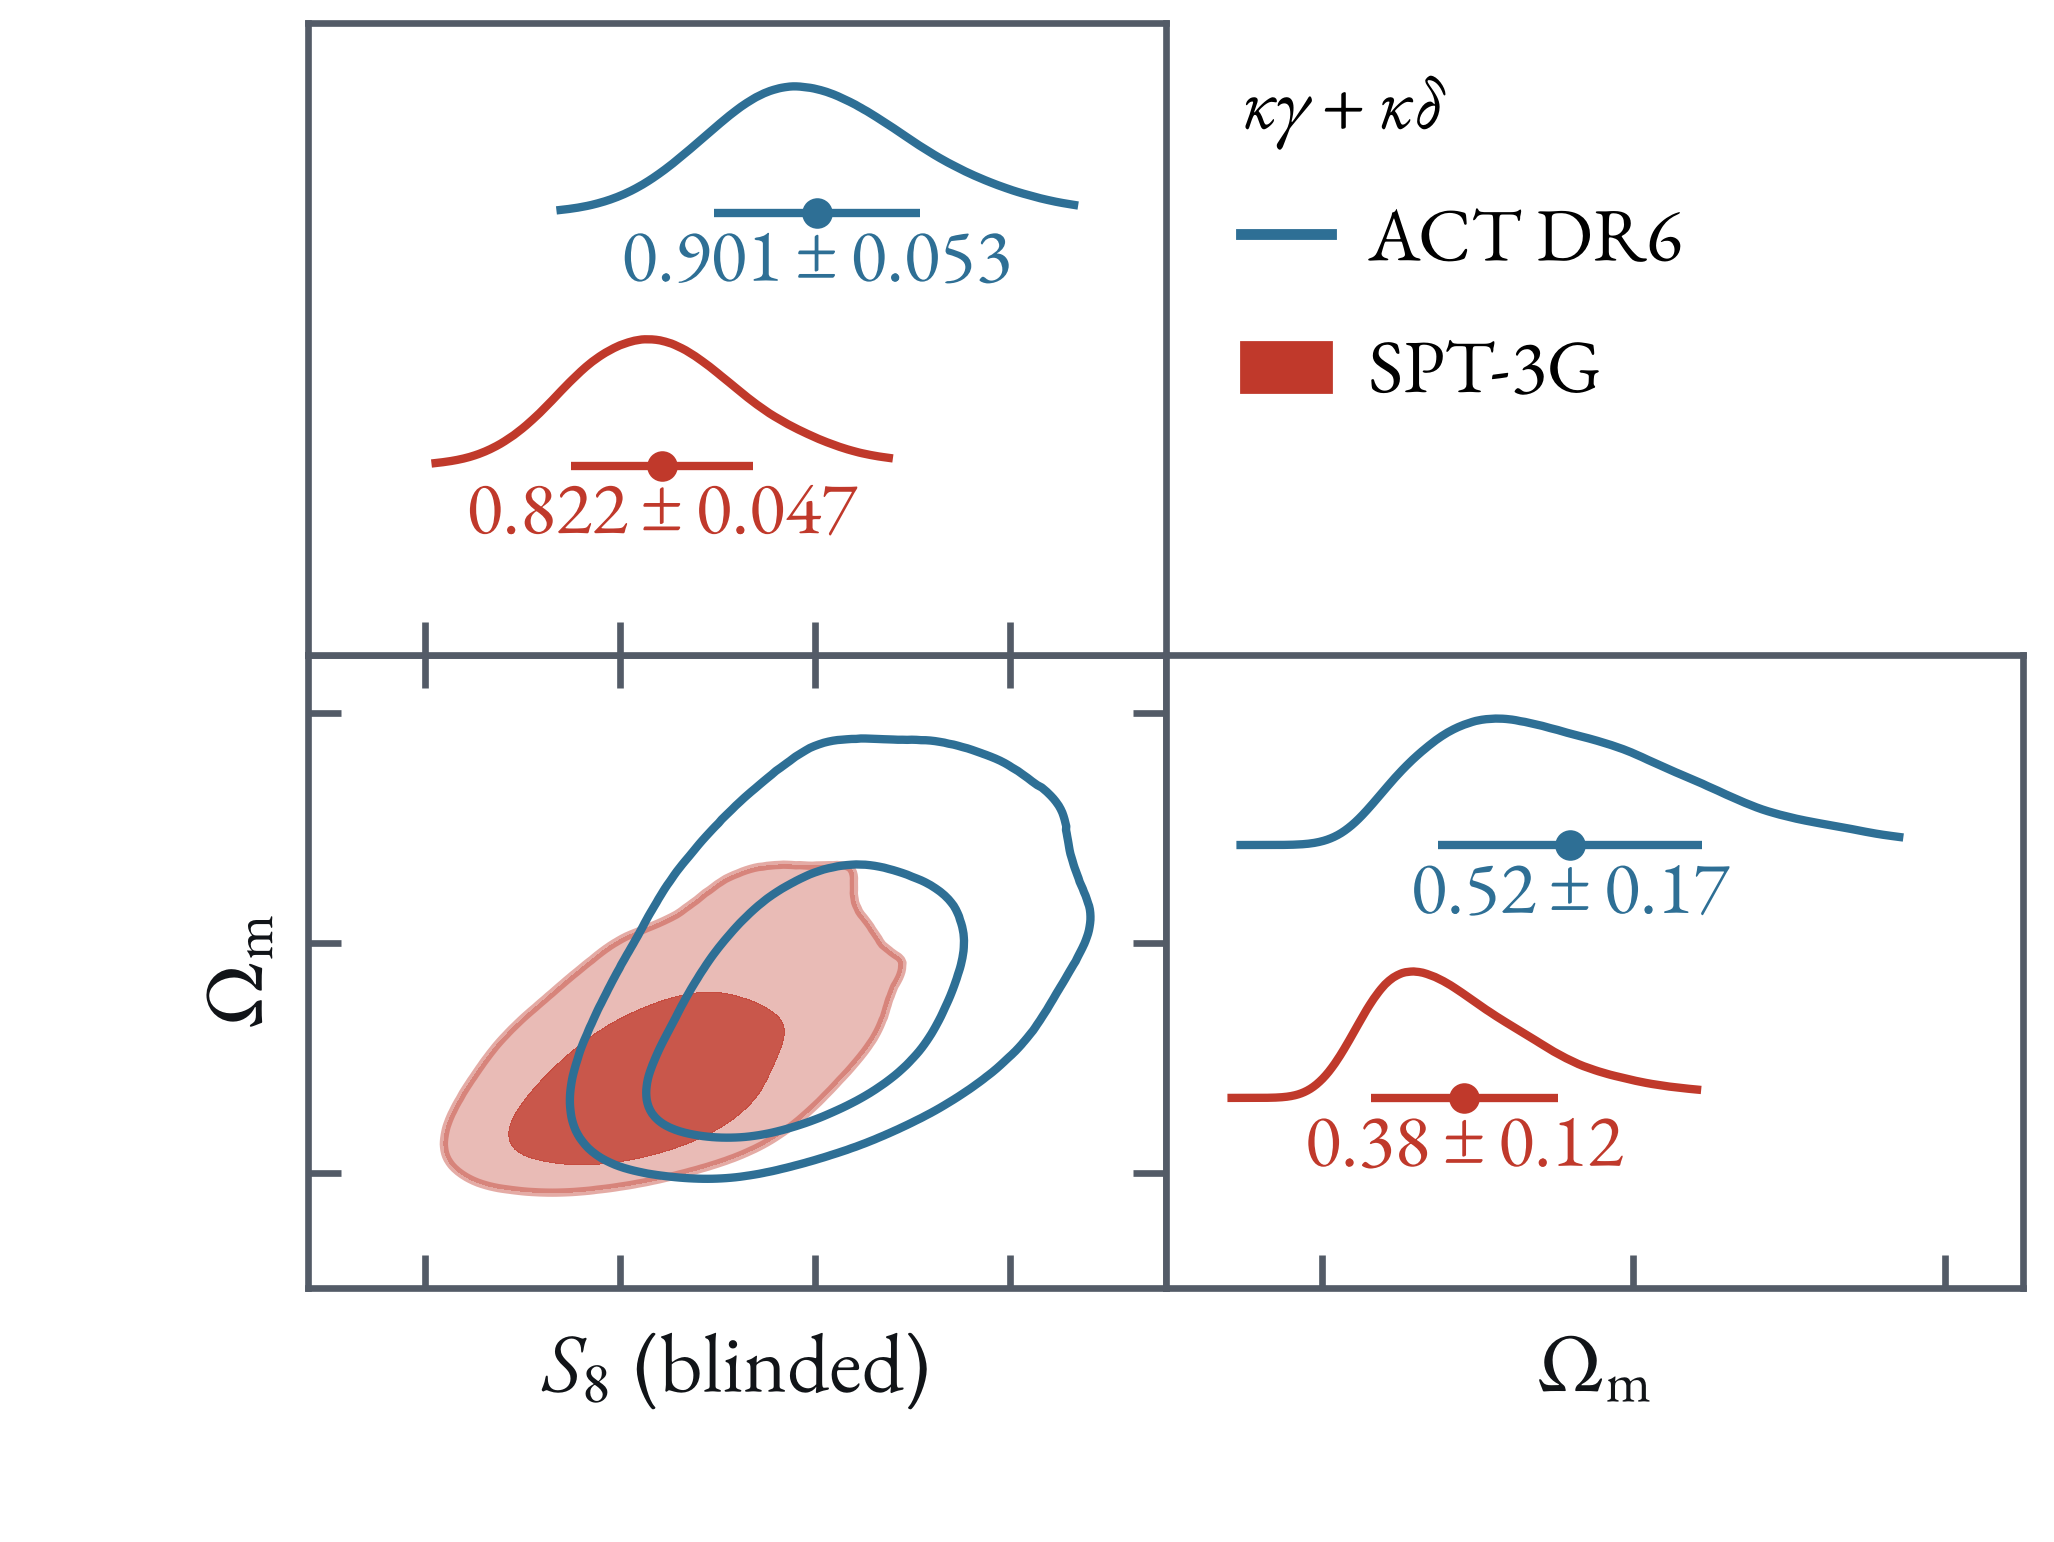
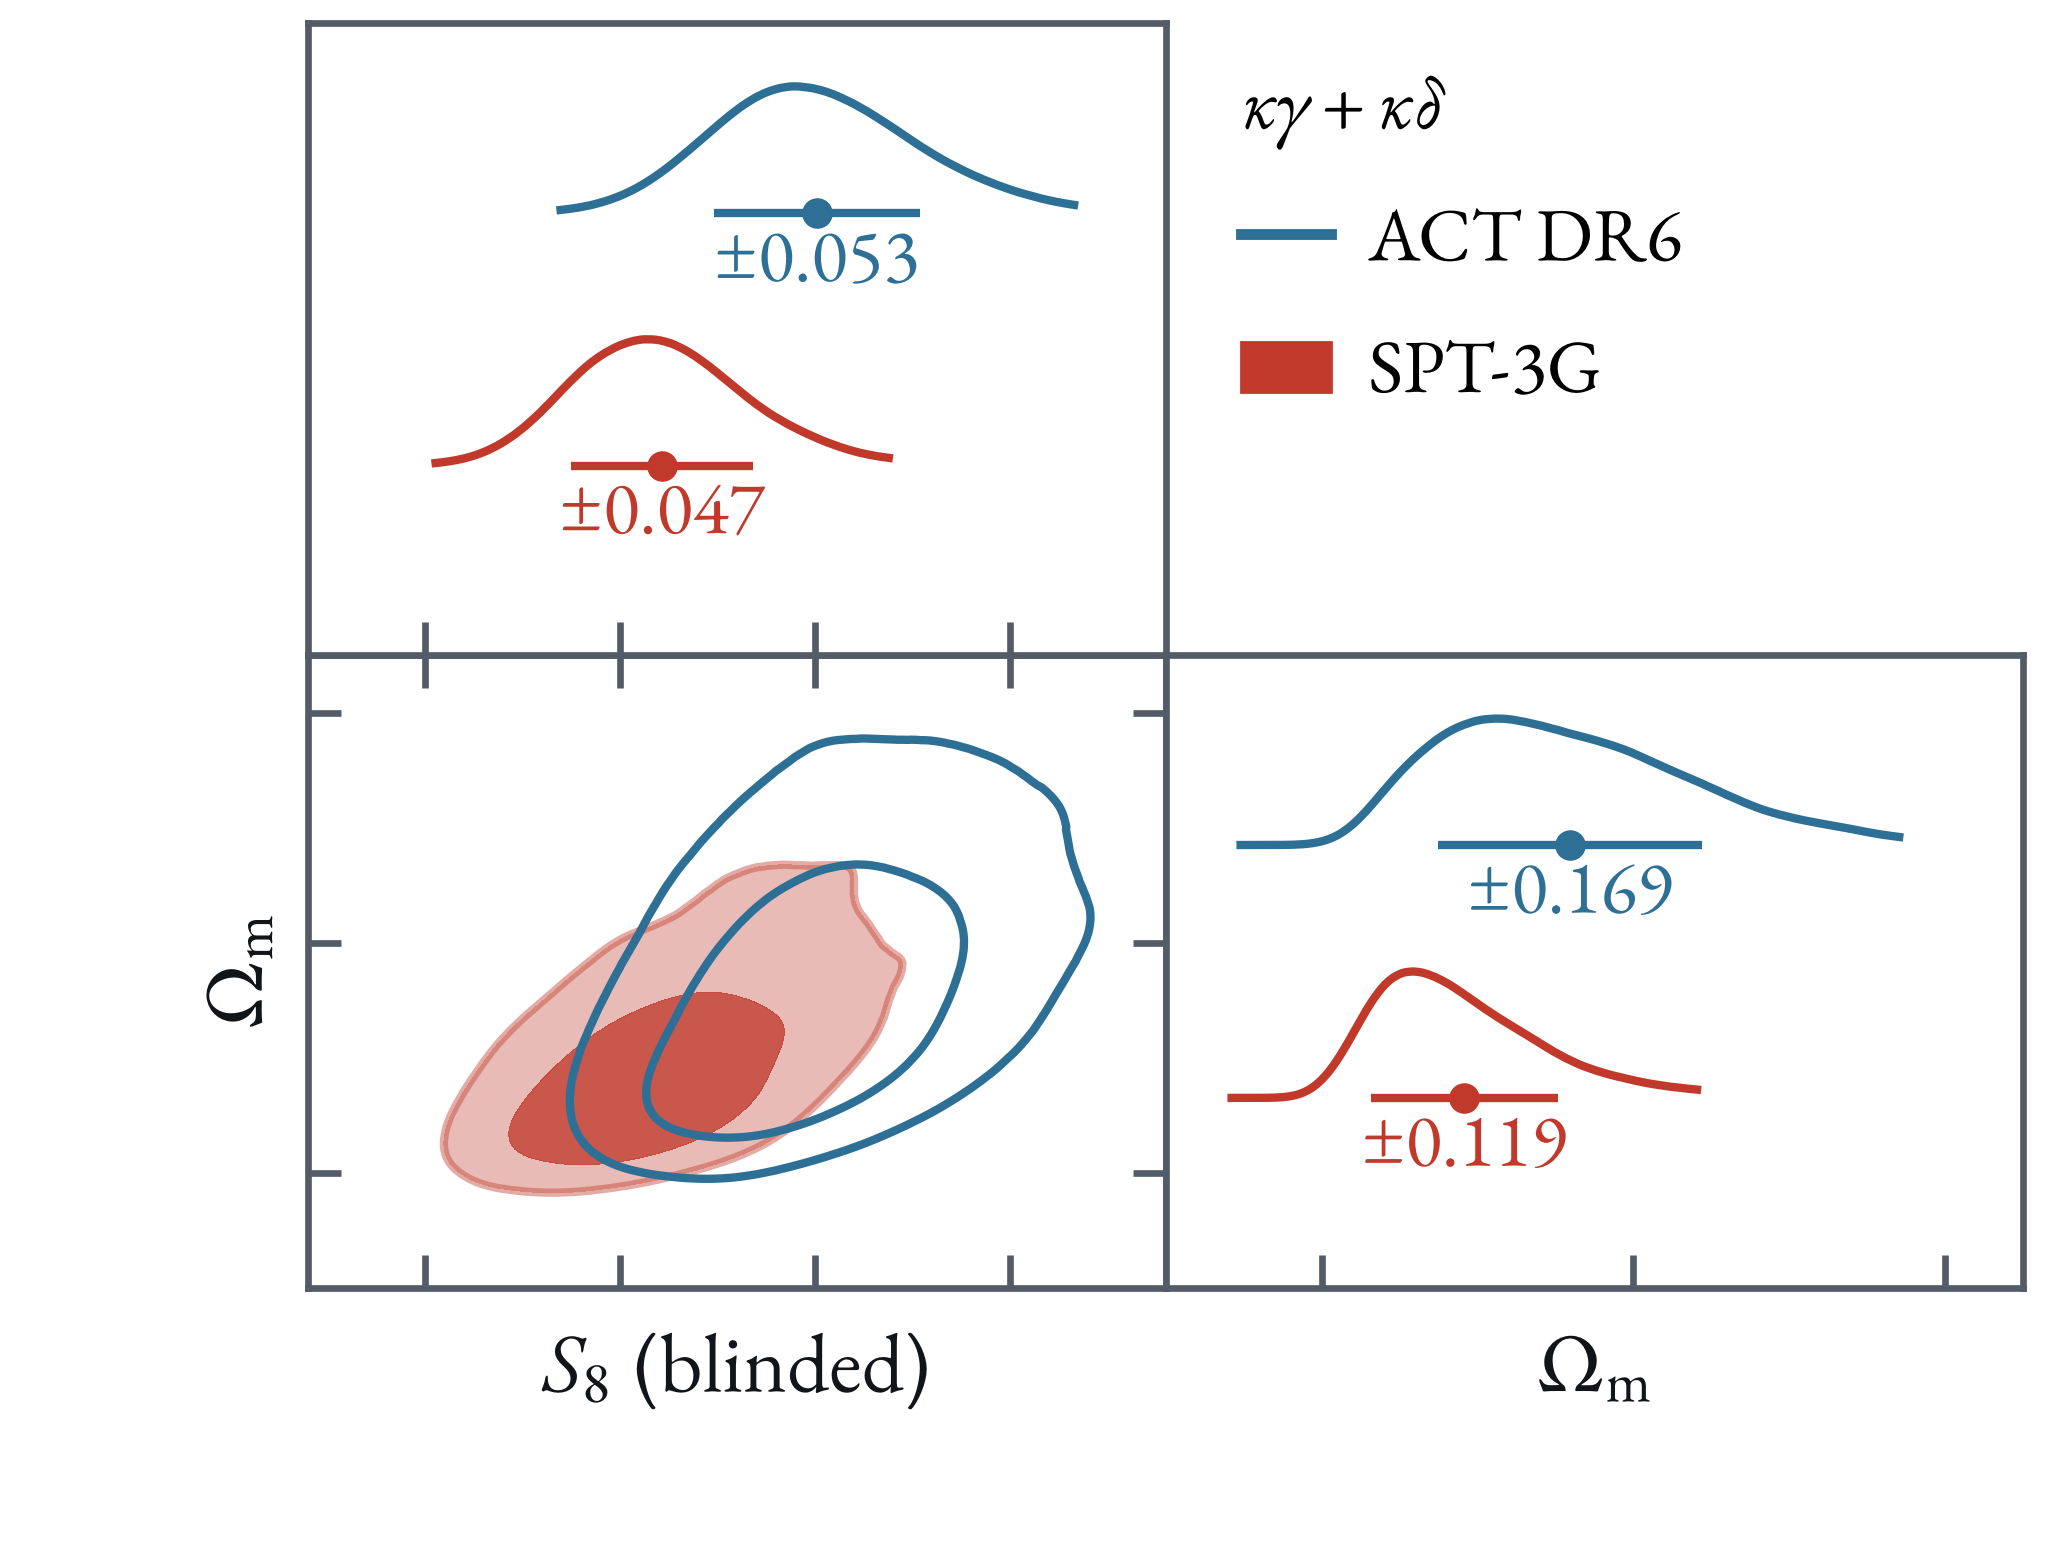
ICE dr1-forecast: plot on the left, last step draws a blinding shift (5×2pt first, then 6×2pt); chains: error bars only
Claude-Session: https://claude.ai/code/session_01JK7o9HLVAQSEbDDkHmrKC6

diff --git a/2611_ICE_Barcelona/slides/dr1-forecast.html b/2611_ICE_Barcelona/slides/dr1-forecast.html
@@ -1,11 +1,22 @@
-<section data-layout="figure">
+<section data-layout="figure-text" data-split="60">
   <h2>DR1-like forecast with SPT-3G and ACT DR6</h2>
   <figure>
     <img src="images/ice_dr1_forecast_1.png" alt="Forecast S8 against Omega_m for Euclid DR1 3x2pt on its own, a tilted ellipse">
     <img class="fragment" data-fragment-index="1" src="images/ice_dr1_forecast_2.png" alt="The 5x2pt with SPT-3G and with ACT DR6 drawn over it: both nearly the same as the 3x2pt">
     <img class="fragment" data-fragment-index="2" src="images/ice_dr1_forecast_3.png" alt="The 6x2pt with SPT-3G and with ACT DR6 in their place: the SPT-3G ellipse has less than half the area of the 3x2pt">
+    <img class="fragment" data-fragment-index="3" src="images/ice_dr1_forecast_draws.png" alt="The same 6x2pt frame with two dots: one point drawn at random from the 5x2pt posterior and one from the 6x2pt posterior">
     <span class="source">Euclid DR1 forecast: chains on a model data vector with no noise added</span>
   </figure>
+  <div class="text">
+    <ul>
+      <li class="fragment" data-fragment-index="3">draw a blinding shift from these posteriors
+        <ul class="draws">
+          <li><span class="dot" style="background:#1B1611"></span>5×2pt first</li>
+          <li><span class="dot" style="background:#C0392B"></span><span style="color:#C0392B">then 6×2pt</span></li>
+        </ul>
+      </li>
+    </ul>
+  </div>
   <aside class="notes">
     <ul class="skim">
       <li><strong>Contours</strong> — 68 % and 95 % for a noiseless Euclid DR1 South vector, $S_8$ against $\Omega_\mathrm{m}$, with the input cosmology at the origin: the 3×2pt alone and kept throughout, then the 5×2pt with SPT-3G (Main and Summer together, disjoint on the sky) filled and with ACT DR6 outlined, then the 6×2pt of each in their place.</li>

diff --git a/2611_ICE_Barcelona/deck.css b/2611_ICE_Barcelona/deck.css
@@ -180,3 +180,7 @@
 /* a figure with its lead credited beneath it: the frame leaves room for the larger portrait */
 .slide figure > .cell:has(> .source.lead) { --chrome: 150px; }
 .slide figure .cell > .source.lead { height: auto; margin-top: 28px; }
+
+/* dr1-forecast: the two blinding draws, keyed by the dots on the plot */
+.slide ul.draws { list-style: none; padding-left: 0; }
+.slide ul.draws .dot { display: inline-block; width: 0.5em; height: 0.5em; border-radius: 50%; margin-right: 0.45em; vertical-align: 0.08em; }

diff --git a/2611_ICE_Barcelona/make_dr1_forecast.py b/2611_ICE_Barcelona/make_dr1_forecast.py
@@ -93,6 +93,20 @@ def main():
             for part in range(2 if c.fill else 1):   # a filled chain is a fill and its outline
                 next(sets).set_zorder(2 + [id(d) for d in draw].index(id(c)) + .1 * part)
         save(fig, f'ice_dr1_forecast_{k}.png')
+        if k == 3:   # the same frame again with one draw from the 5×2pt posterior and one from the 6×2pt, as blinding shifts
+            fig2 = posteriors(chains, D, center=truth, value=False, rows=3, lims={'Omega_m': (-.07, .07), 'S8': (-.036, .036)},
+                              ticks={'Omega_m': [-.05, 0, .05], 'S8': [-.02, 0, .02]})
+            sets = iter(fig2.axes[0].collections)
+            for c in chains:
+                for part in range(2 if c.fill else 1):
+                    next(sets).set_zorder(2 + [id(d) for d in draw].index(id(c)) + .1 * part)
+            rng = np.random.default_rng(11)
+            for name, color in (('dr1_MS_5x2', style.INK), ('dr1_MS_6x2', SPT)):
+                d, w = z[name + '|d'].astype(float), z[name + '|w'].astype(float)
+                i = rng.choice(len(w), p=w / w.sum())
+                x, y = (d[i, DERIVED.index(n)] - truth[n] for n in ('S8', 'Omega_m'))
+                fig2.axes[0].plot(x, y, marker='o', ms=20, color=color, mec='white', mew=2.5, zorder=9)
+            save(fig2, 'ice_dr1_forecast_draws.png')
     fig_m(zw)
     names = sorted({k.split('|')[0] for k in z.files if k.startswith(('dr1_', 'tr1_'))})
     out = {n: stats(z, n) for n in names} | {n: stats(zw, n) for n in ('dr1_3x2_pw10', 'dr1_MS_5x2_pw10')}

diff --git a/2611_ICE_Barcelona/make_chains_spt_act.py b/2611_ICE_Barcelona/make_chains_spt_act.py
@@ -45,7 +45,7 @@ def main():
             chains.append(c)
             stats[cmb][run] = {q: round(float(v), 4) for n in ('S8', 'Omega_m')
                                for q, v in zip((n + '_blinded', 'sigma_' + n), c.sigma(n))}
-        fig = posteriors(chains, {'S8': r'S_8\ \mathrm{(blinded)}', 'Omega_m': r'\Omega_\mathrm{m}'}, title=label,
+        fig = posteriors(chains, {'S8': r'S_8\ \mathrm{(blinded)}', 'Omega_m': r'\Omega_\mathrm{m}'}, title=label, value=False,
                          lims={'Omega_m': (0, 1.1), 'S8': (.64, 1.08)},
                          ticks={'Omega_m': [.2, .6, 1.], 'S8': [.7, .8, .9, 1.]})
         for ax in fig.axes:   # the marginals carry the numbers; the axes show ticks without values
